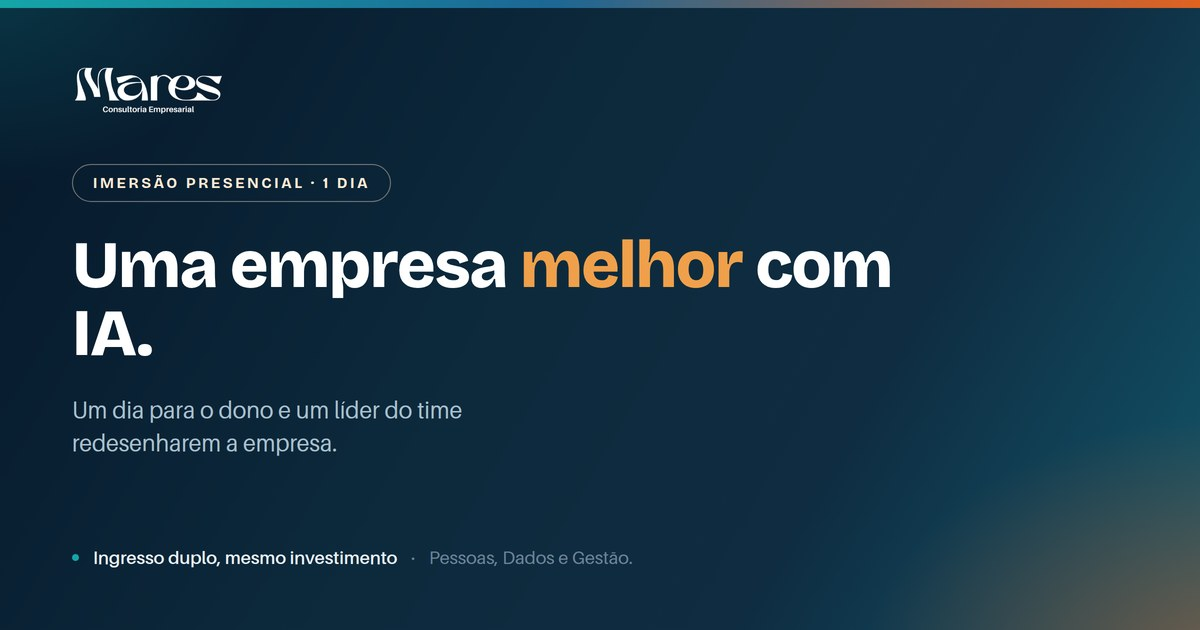
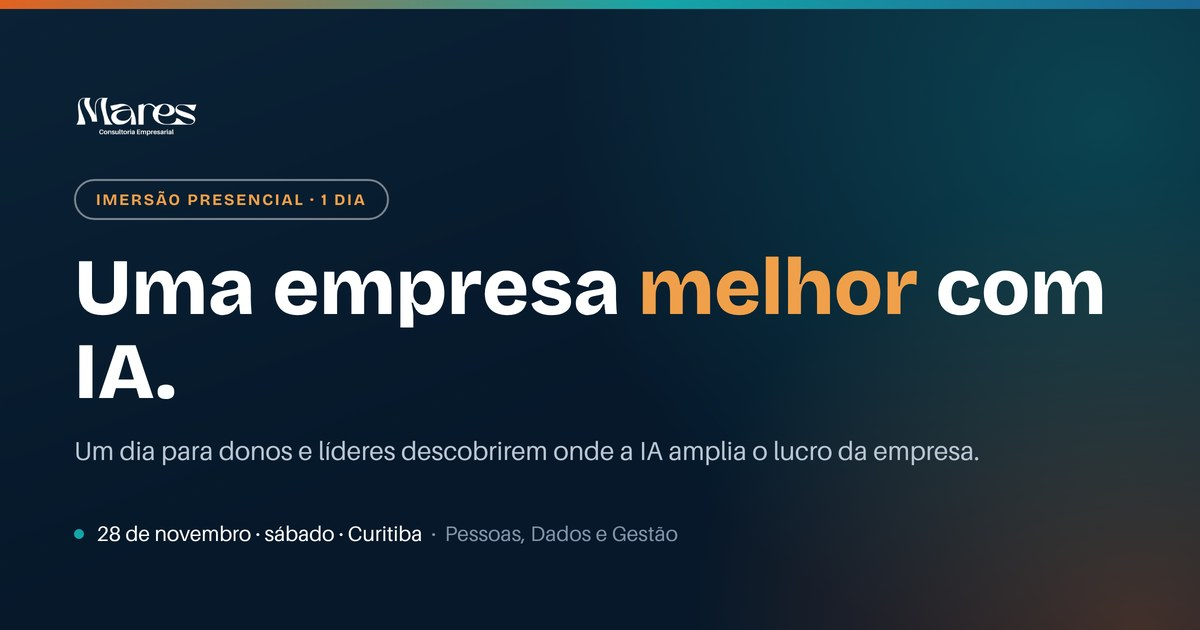
Mares.IA: terceiro preco vira Valor oficial, local a definir, nova imagem de compartilhamento
Claude-Session: https://claude.ai/code/session_018tLSmPgKUH5nRGNYSzQVm7

diff --git a/mares-ia/index.html b/mares-ia/index.html
@@ -4,14 +4,14 @@
 <meta charset="UTF-8">
 <meta name="viewport" content="width=device-width, initial-scale=1.0">
 
-<!-- Turma de Curitiba, 28 de novembro de 2026, na Uniopet Centro Cívico, Rua Nilo Peçanha, 1501. Remarcada em 30/10/2026.
+<!-- Turma de Curitiba, 28 de novembro de 2026, local ainda a definir (Uniopet não confirmou em 04/11/2026). Remarcada em 30/10/2026.
      Checkout da Eduzz ligado em 04/11/2026: cada lote do MARES_LOTES tem o link do ingresso
      individual e do duplo, e o botão final troca sozinho quando o lote vira.
      Para abrir a página aos buscadores: apagar a linha robots abaixo, incluir /mares-ia/
      no sitemap.xml e conferir que o robots.txt não bloqueia. -->
 
 <title>Imersão Mares.IA · Curitiba, 28 de novembro de 2026 | MARES</title>
-<meta name="description" content="Imersão presencial de um dia em Curitiba, 28 de novembro de 2026, para donos e líderes redesenharem a empresa a partir do que a Inteligência Artificial já tornou possível. Ingresso individual ou duplo, em três lotes.">
+<meta name="description" content="Imersão presencial de um dia em Curitiba, 28 de novembro de 2026, para donos e líderes redesenharem a empresa a partir do que a Inteligência Artificial já tornou possível. Ingresso individual ou duplo, com valores de lançamento.">
 <link rel="canonical" href="https://www.maresconsultoria.com.br/mares-ia/">
 
 <meta property="og:locale" content="pt_BR">
@@ -64,8 +64,8 @@ fbq('init','673278761920486');fbq('track','PageView');
   "endDate": "2026-11-28T18:00:00-03:00",
   "location": {
     "@type": "Place",
-    "name": "Uniopet Centro Cívico",
-    "address": { "@type": "PostalAddress", "streetAddress": "Rua Nilo Peçanha, 1501", "addressLocality": "Curitiba", "addressRegion": "PR", "addressCountry": "BR" }
+    "name": "Curitiba, local a definir",
+    "address": { "@type": "PostalAddress", "addressLocality": "Curitiba", "addressRegion": "PR", "addressCountry": "BR" }
   },
   "organizer": {
     "@type": "Organization",
@@ -1511,7 +1511,7 @@ html{scroll-padding-top:80px}
     <div class="hero-facts">
       <div><b>Data</b>28 de novembro, sábado</div>
       <div><b>Cidade</b>Curitiba</div>
-      <div><b>Local</b>Uniopet Centro Cívico</div>
+      <div><b>Local</b>A definir</div>
       <div><b>Formato</b>Presencial, dia inteiro</div>
     </div>
 
@@ -1813,7 +1813,7 @@ html{scroll-padding-top:80px}
 window.MARES_LOTES = [
   { nome: "Lote 1", cond: "até 9 de novembro",        fim: new Date(2026, 10, 9, 23, 59),  individual: 997,  duplo: 1597, checkout: { individual: "https://chk.eduzz.com/efmoox67", duplo: "https://chk.eduzz.com/gxxwn2iu" } },
   { nome: "Lote 2", cond: "de 10 a 20 de novembro",   fim: new Date(2026, 10, 20, 23, 59), individual: 1297, duplo: 1997, checkout: { individual: "https://chk.eduzz.com/yjzjl2rh", duplo: "https://chk.eduzz.com/oo2cjqtm" } },
-  { nome: "Lote 3", cond: "de 21 a 25 de novembro",   fim: new Date(2026, 10, 25, 23, 59), individual: 1597, duplo: 2397, checkout: { individual: "https://chk.eduzz.com/sc7p7ein", duplo: "https://chk.eduzz.com/eiaiepcs" } }
+  { nome: "Valor oficial", oficial: true, cond: "de 21 a 25 de novembro",   fim: new Date(2026, 10, 25, 23, 59), individual: 1597, duplo: 2397, checkout: { individual: "https://chk.eduzz.com/sc7p7ein", duplo: "https://chk.eduzz.com/eiaiepcs" } }
 ];
 
 /* 997 vira "R$ 997" e 998.5 vira "R$ 998,50" */
@@ -1843,7 +1843,7 @@ window.maresLinhaLote = function () {
   <div class="wrap-narrow">
     <p class="eyebrow">Investimento</p>
     <h2>Você escolhe se vem sozinho ou acompanhado</h2>
-    <p class="lead">São dois ingressos, o individual e o duplo, e o preço dos dois vira em três lotes. Quem decide antes paga menos, e é sempre assim.</p>
+    <p class="lead">São dois ingressos, o individual e o duplo, e antes do valor oficial existem dois lotes de lançamento. Quem decide antes paga menos, e é sempre assim.</p>
 
     <div class="lotes" id="lotes"></div>
 
@@ -1861,7 +1861,7 @@ window.maresLinhaLote = function () {
           var ultimo = (i === window.MARES_LOTES.length - 1);
           var estado = (aberto && l === aberto) ? "ativo" : (l.fim <= new Date() ? "encerrado" : "futuro");
           html += '<div class="lote ' + estado + '">';
-          html += '<div class="lote-nome">' + l.nome + (ultimo ? " · último" : "") +
+          html += '<div class="lote-nome">' + l.nome +
                   (estado === "ativo" ? " · aberto" : "") + '</div>';
           html += '<div class="lote-precos">' +
                     '<div><span>Individual</span><b>' + window.maresPreco(l.individual) + '</b></div>' +
@@ -1982,8 +1982,9 @@ window.maresLinhaLote = function () {
       var ultimo = (l === window.MARES_LOTES[window.MARES_LOTES.length - 1]);
       pintar("aviso-lote", fechou
         ? "As inscrições desta turma estão encerradas. Fale comigo no WhatsApp para saber da próxima."
-        : "O " + l.nome.toLowerCase() + " vale " + l.cond +
-          (ultimo ? ", e é o último. Depois dele as inscrições encerram." : ". Depois o valor sobe e não volta."));
+        : (l.oficial
+          ? "O valor oficial vale " + l.cond + ", e as inscrições encerram no dia 25."
+          : "O " + l.nome.toLowerCase() + " vale " + l.cond + ". Depois o valor sobe e não volta."));
     };
     window.maresPintarPrecos();
     </script>
@@ -2196,7 +2197,7 @@ window.maresLinhaLote = function () {
           : "Você vem sozinho ou vem com mais alguém da empresa?";
       },
       ajuda: function () {
-        return "No " + LOTE.nome.toLowerCase() + " o individual está " + VL_INDIVIDUAL +
+        return (LOTE.oficial ? "No valor oficial" : "No " + LOTE.nome.toLowerCase()) + " o individual está " + VL_INDIVIDUAL +
                " e o duplo " + VL_DUPLO + ", ou seja, a segunda vaga sai por " + VL_SEGUNDA + ".";
       },
       o: function (r) {
@@ -2331,7 +2332,7 @@ window.maresLinhaLote = function () {
 
     el("preco-ajuda").textContent = LOTE_FECHOU
       ? "As inscrições desta turma já encerraram. Siga assim mesmo e eu confirmo com você no WhatsApp se ainda sobrou vaga."
-      : "Veja o valor antes de continuar. É o preço do " + LOTE.nome.toLowerCase() + ", que vale " + LOTE.cond + ".";
+      : "Veja o valor antes de continuar. " + (LOTE.oficial ? "É o valor oficial, que vale " : "É o preço do " + LOTE.nome.toLowerCase() + ", que vale ") + LOTE.cond + ".";
     el("preco-tag").textContent = ing.tag;
     el("preco-valor").textContent = ing.valor;
 
@@ -2411,7 +2412,7 @@ window.maresLinhaLote = function () {
       (LOTE_FECHOU
         ? 'As inscrições desta turma já encerraram.'
         : (LOTE === window.MARES_LOTES[window.MARES_LOTES.length - 1]
-            ? 'Este é o último lote. Depois dele as inscrições encerram.'
+            ? 'Este é o valor oficial. As inscrições encerram em 25 de novembro.'
             : 'Depois que o ' + LOTE.nome.toLowerCase() + ' fecha, o valor sobe e não volta.')) + '</p>';
   }
 
@@ -2733,7 +2734,7 @@ window.maresLinhaLote = function () {
     <h2>A IA já está no ambiente.<br>A pergunta é se a sua empresa está <em>preparada para operar nele</em>.</h2>
     <p>Enquanto uns discutem qual ferramenta usar, outros já estão reduzindo custo, ganhando velocidade e crescendo sem inchar a estrutura.</p>
     <a class="cta" href="#investimento">Quero garantir minha vaga</a>
-    <p class="cta-note" style="margin-top:16px">28 de novembro de 2026, sábado · Uniopet Centro Cívico, Rua Nilo Peçanha, 1501, Curitiba</p>
+    <p class="cta-note" style="margin-top:16px">28 de novembro de 2026, sábado · Curitiba · local a definir</p>
   </div>
 </section>
 
